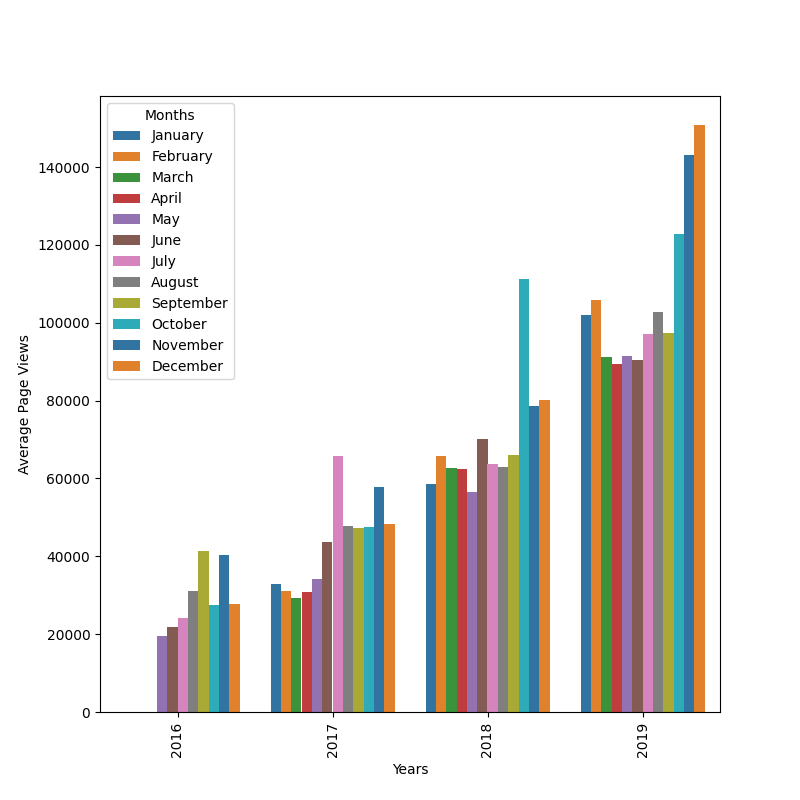
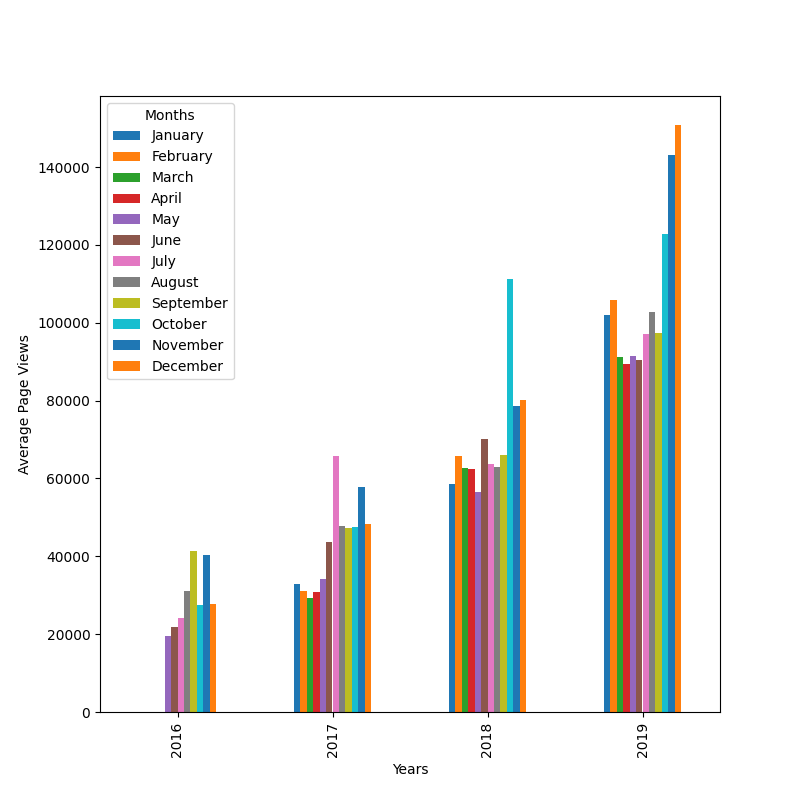
Fixed Bar Plot
Changed the bar plot to use matplotlib instead of seaborn in hopes of passing the test. Also added a new barplot to represent the changes

diff --git a/time_series_visualizer.py b/time_series_visualizer.py
@@ -33,36 +33,39 @@ def draw_line_plot():
     return fig
 
 def draw_bar_plot():
+   def draw_bar_plot():
     fig, ax = plt.subplots(figsize=(8, 8))
-    # Copy and modify data for monthly bar plot
+    # Organizing information
+    #   Copy and modify data for monthly bar plot
     df_bar = df.copy()
     df_bar['year'] = df_bar.index.year
     df_bar['month'] = df_bar.index.month
 
-#    monthly_avg = df_bar.groupby(['year', 'month'])['value'].transform('mean')
-#   df_bar['monthly_avg'] = monthly_avg
-    df_bar = df_bar.groupby(['year', 'month'])['value'].mean().reset_index()
-    # Draw bar plot
-    sns.barplot(data= df_bar, x= 'year', y= 'value', hue= 'month', palette= 'tab10', ax=ax)
-
+    #   Defining months/years
     month_names = ['January', 'February', 'March', 'April', 'May', 'June', 
                    'July', 'August', 'September', 'October', 'November', 'December']
+    unique_years = df_bar['year'].unique()
+
+    df_bar = df_bar.groupby(['year', 'month'])['value'].mean().unstack()
+
+
+    # Draw bar plot
+    df_bar.plot(kind= 'bar', ax=ax)
+
+
     
-    handles, labels = ax.get_legend_handles_labels()  # Get current legend labels
-    ax.legend(handles=handles, labels=month_names, title='Months', loc='upper left')
 
+    # Configure axis labels and ticks
+    ax.legend(title= 'Months', labels= month_names, loc= 'upper left')
     ax.set_xlabel('Years')
-    plt.xticks(rotation= 90)
     ax.set_ylabel('Average Page Views')
+    ax.set_xticks(range(len(df_bar.index)))
+    ax.set_xticklabels(unique_years, rotation=90)
 
-# plot legend = "Months"
-# x_label = 'Years'
-# y_label = 'Average Page Views'
 
     # Save image and return fig (don't change this part)
     fig.savefig('bar_plot.png')
     return fig
-
 def draw_box_plot():
     # Prepare data for box plots (this part is done!)
     df_box = df.copy()
